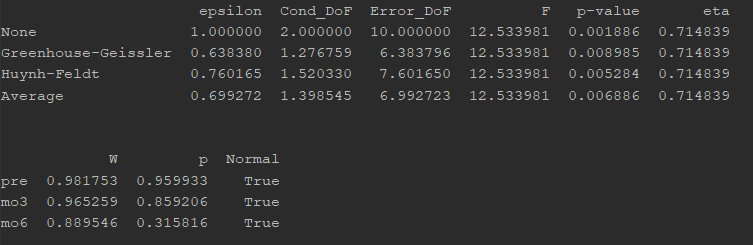
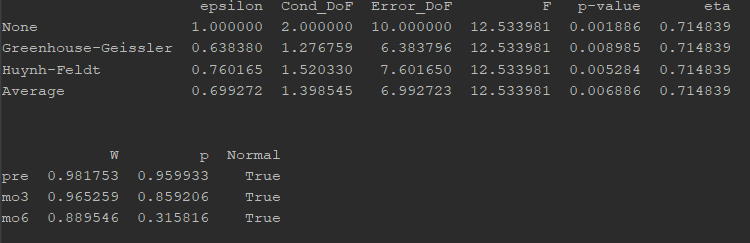
Changed display table order for easier viewing of important statistics (p-value) Updated output table image to reflect this order change

diff --git a/pyNOVA/repeated_measures.py b/pyNOVA/repeated_measures.py
@@ -78,6 +78,8 @@ def anova(df, corr='GG', print_table=True, p_normal=0.05):
     # Effect Size
     stat['eta'] = ones(4) * (ss_cond/(ss_cond + ss_error))
 
+    stat = stat[['epsilon', 'Cond_DoF', 'Error_DoF', 'eta', 'F', 'p-value']]  # re-arrange for easier viewing
+
     # Normality Tests
     if p_normal is not None:
         normality = pd.DataFrame(df.apply(shapiro, axis=0)).transpose()
